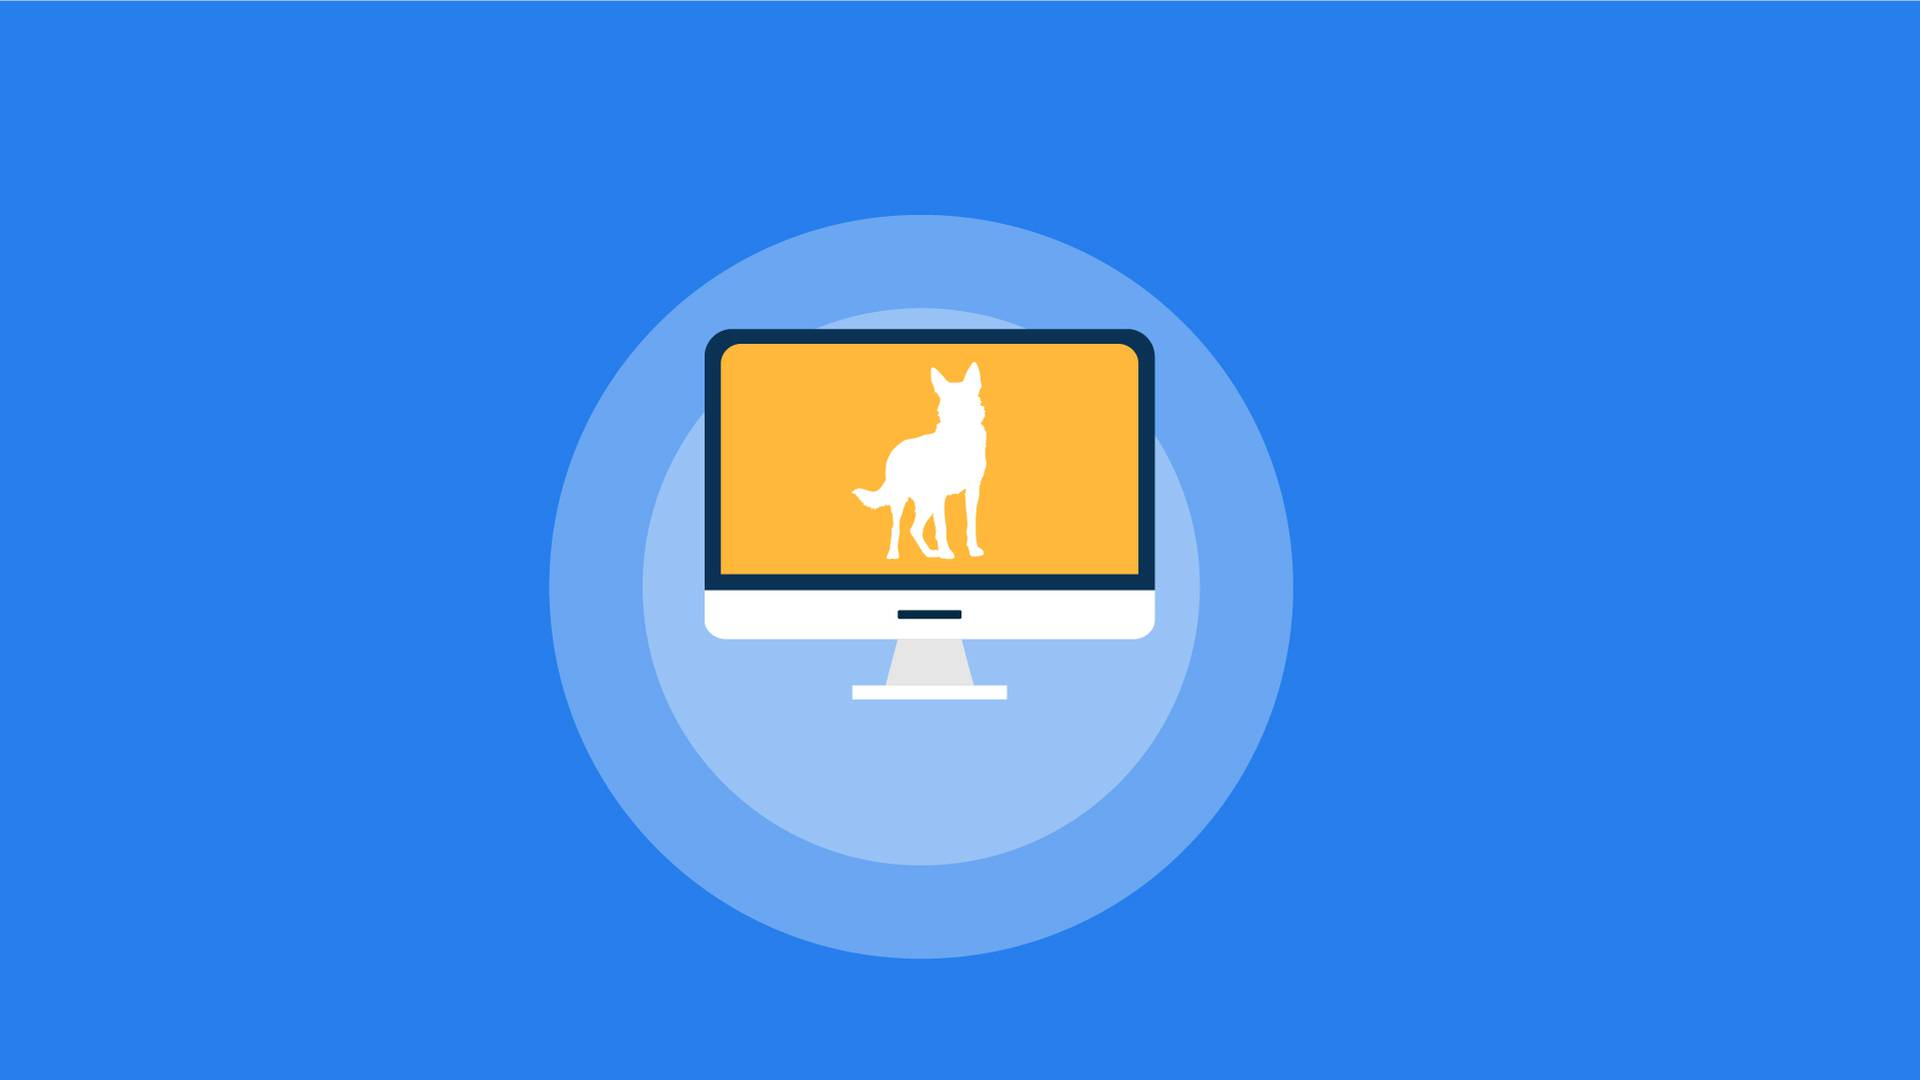
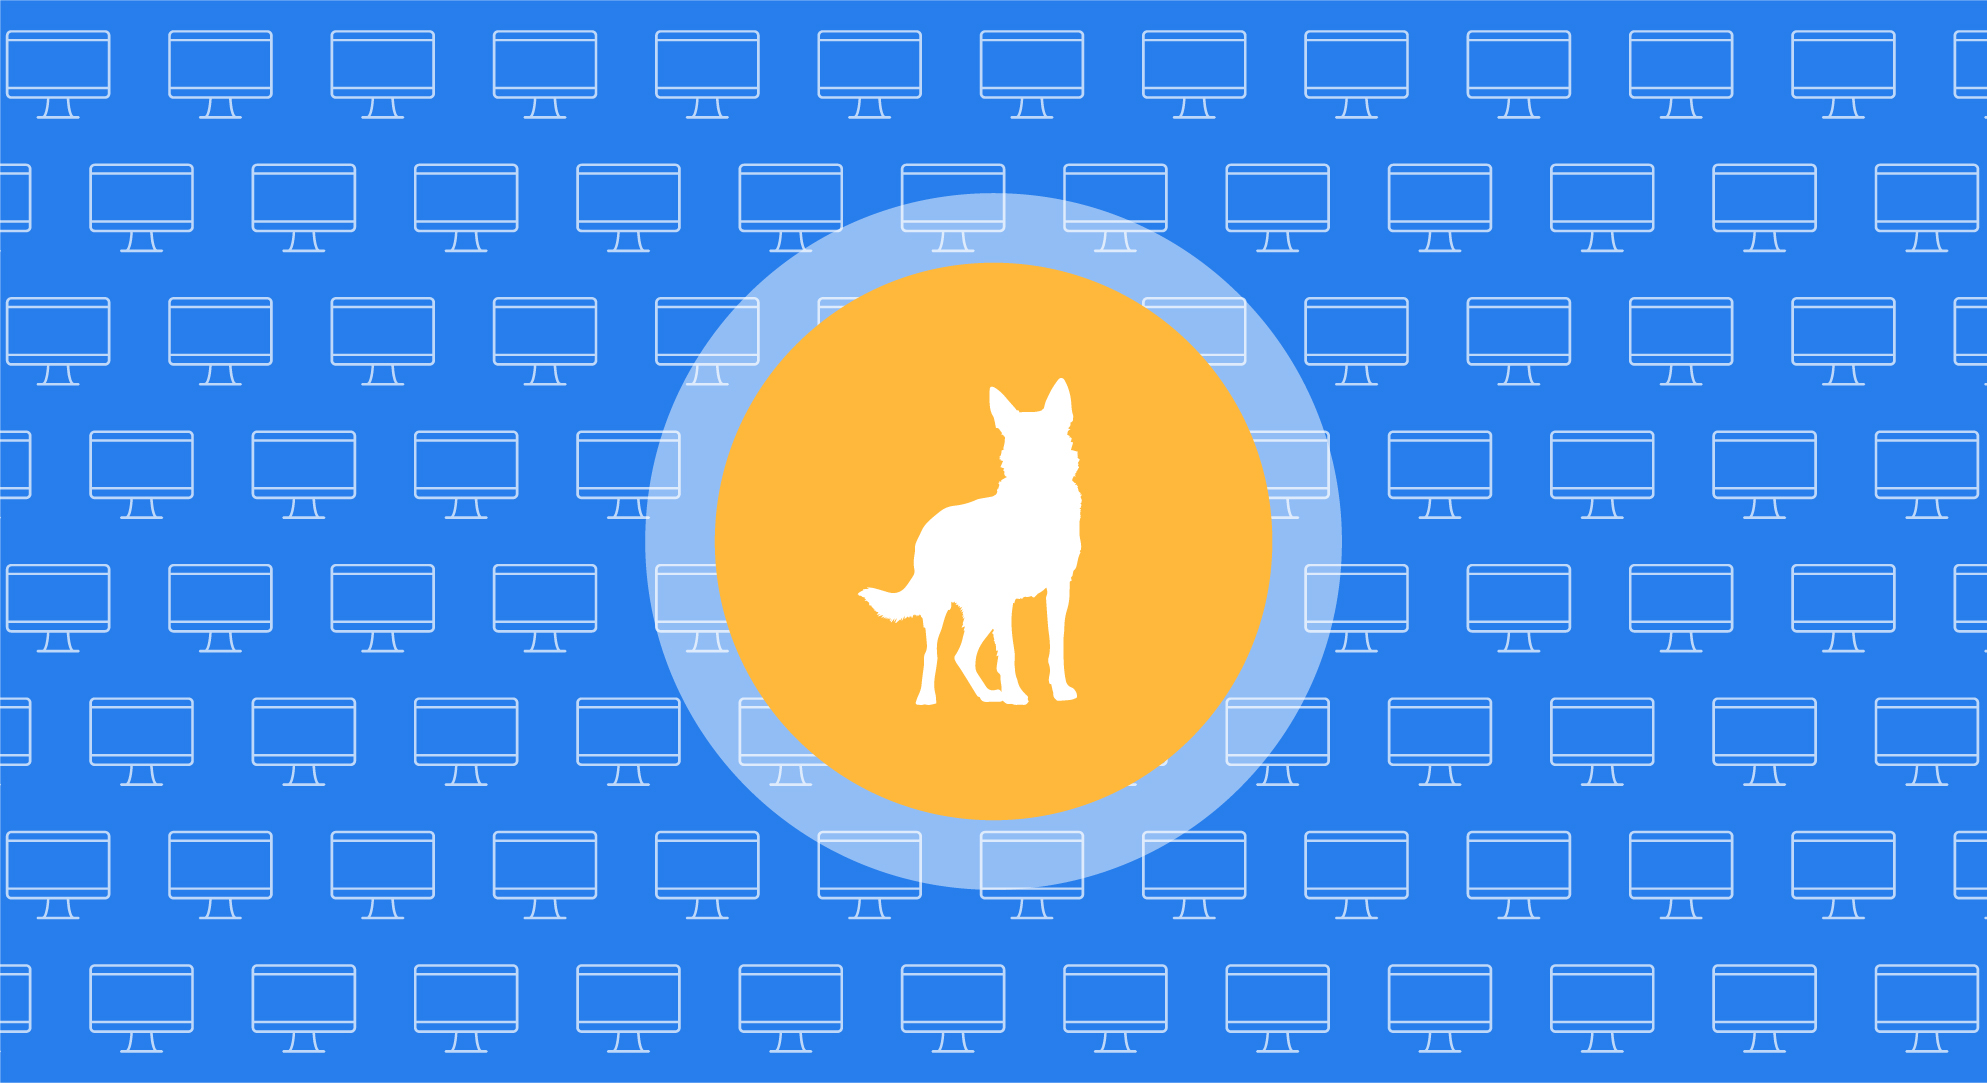
Changed images for careers posts

diff --git a/careers.md b/careers.md
@@ -1,7 +1,8 @@
 ---
 layout: page
-title: Careers
+title:
 permalink: /careers
+featured-img: carrers_bgwerehiring
 ---
 
 Software rules the world, but it is full of bugs. Avatao helps companies to build a security culture in software engineering with an awesome, hands-on online security training for developers. We have customers from Europe and getting a massive interest from the US.

diff --git a/_pages/key_account_manager.md b/_pages/key_account_manager.md
@@ -2,10 +2,11 @@
 layout: page
 title: Key Account Manager
 permalink: /careers/key-account-manager
+featured-img: keyaccountmanagerisneeded
 summary: We are planning to expand the Avatao family with a Key Account Manager
 ---
 
-# IT Sales Representative
+# Key Account Manager
 
 Please send your CV/LinkedIn here: [careers@avatao.com](mailto:careers@avatao.com) to apply.
 

diff --git a/_pages/it_sales_representative.md b/_pages/it_sales_representative.md
@@ -2,6 +2,7 @@
 layout: page
 title: IT Sales Representative
 permalink: /careers/it-sales-representative
+featured-img: itsalesrepresentativeisneeded
 summary: We are planning to expand the Avatao family with an IT Sales Representative
 ---
 
